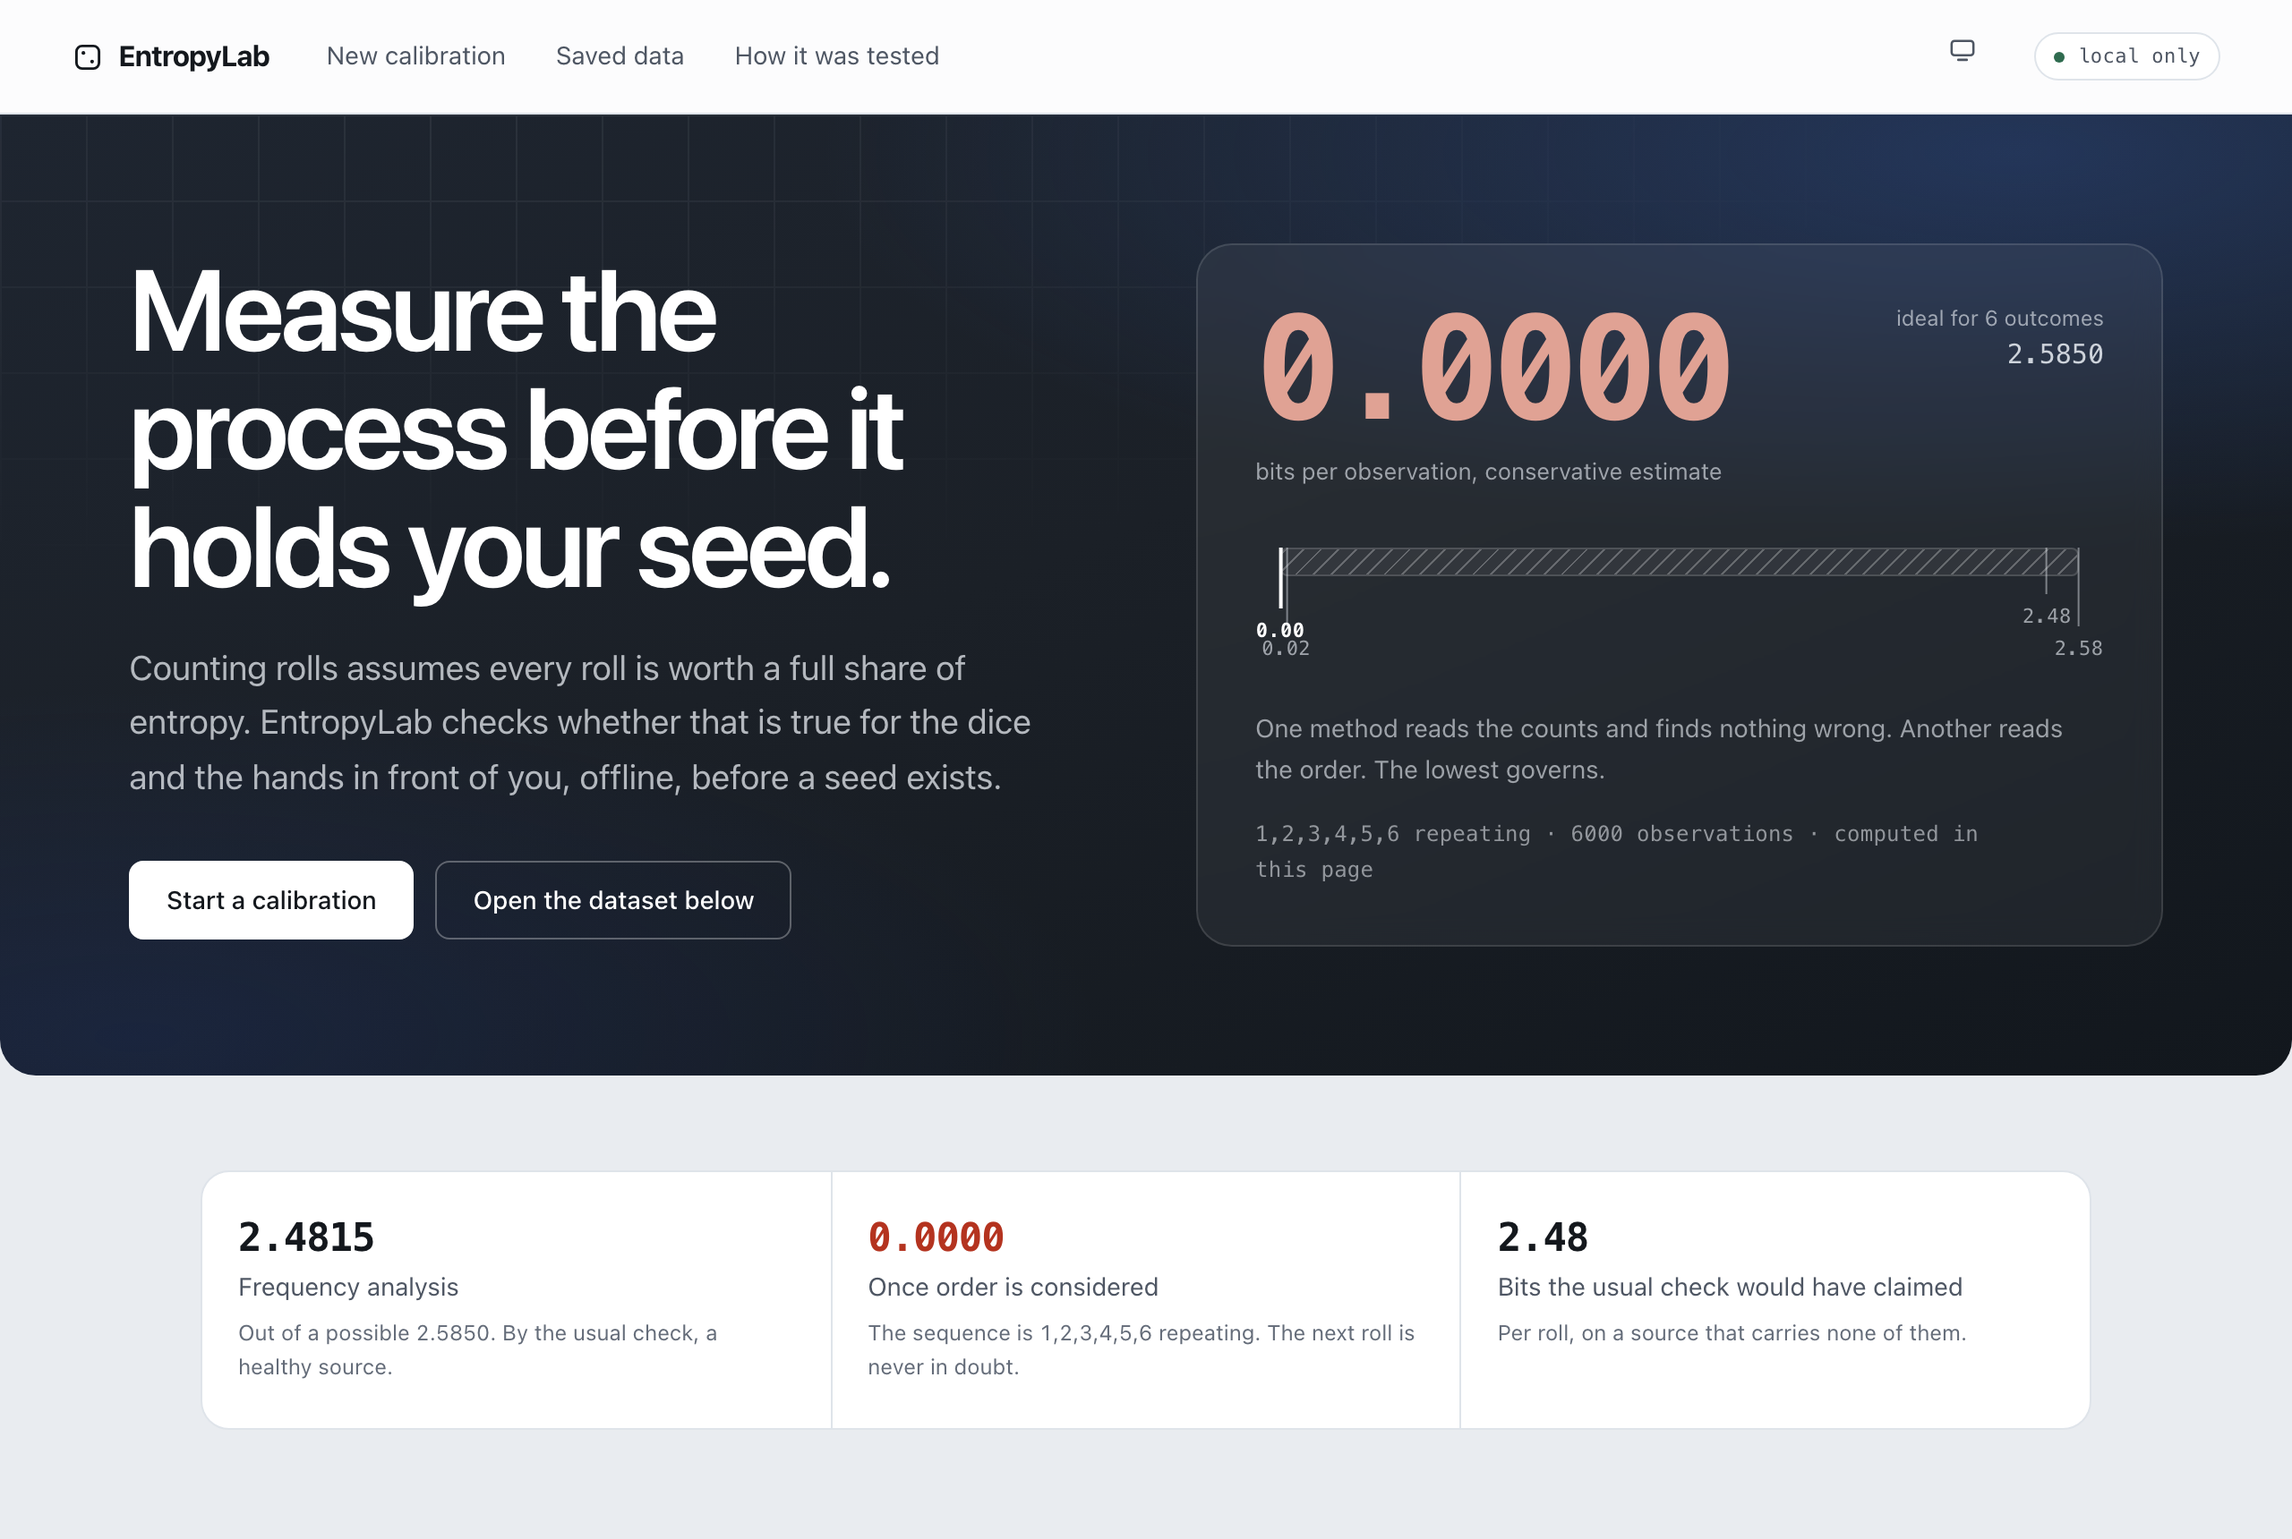
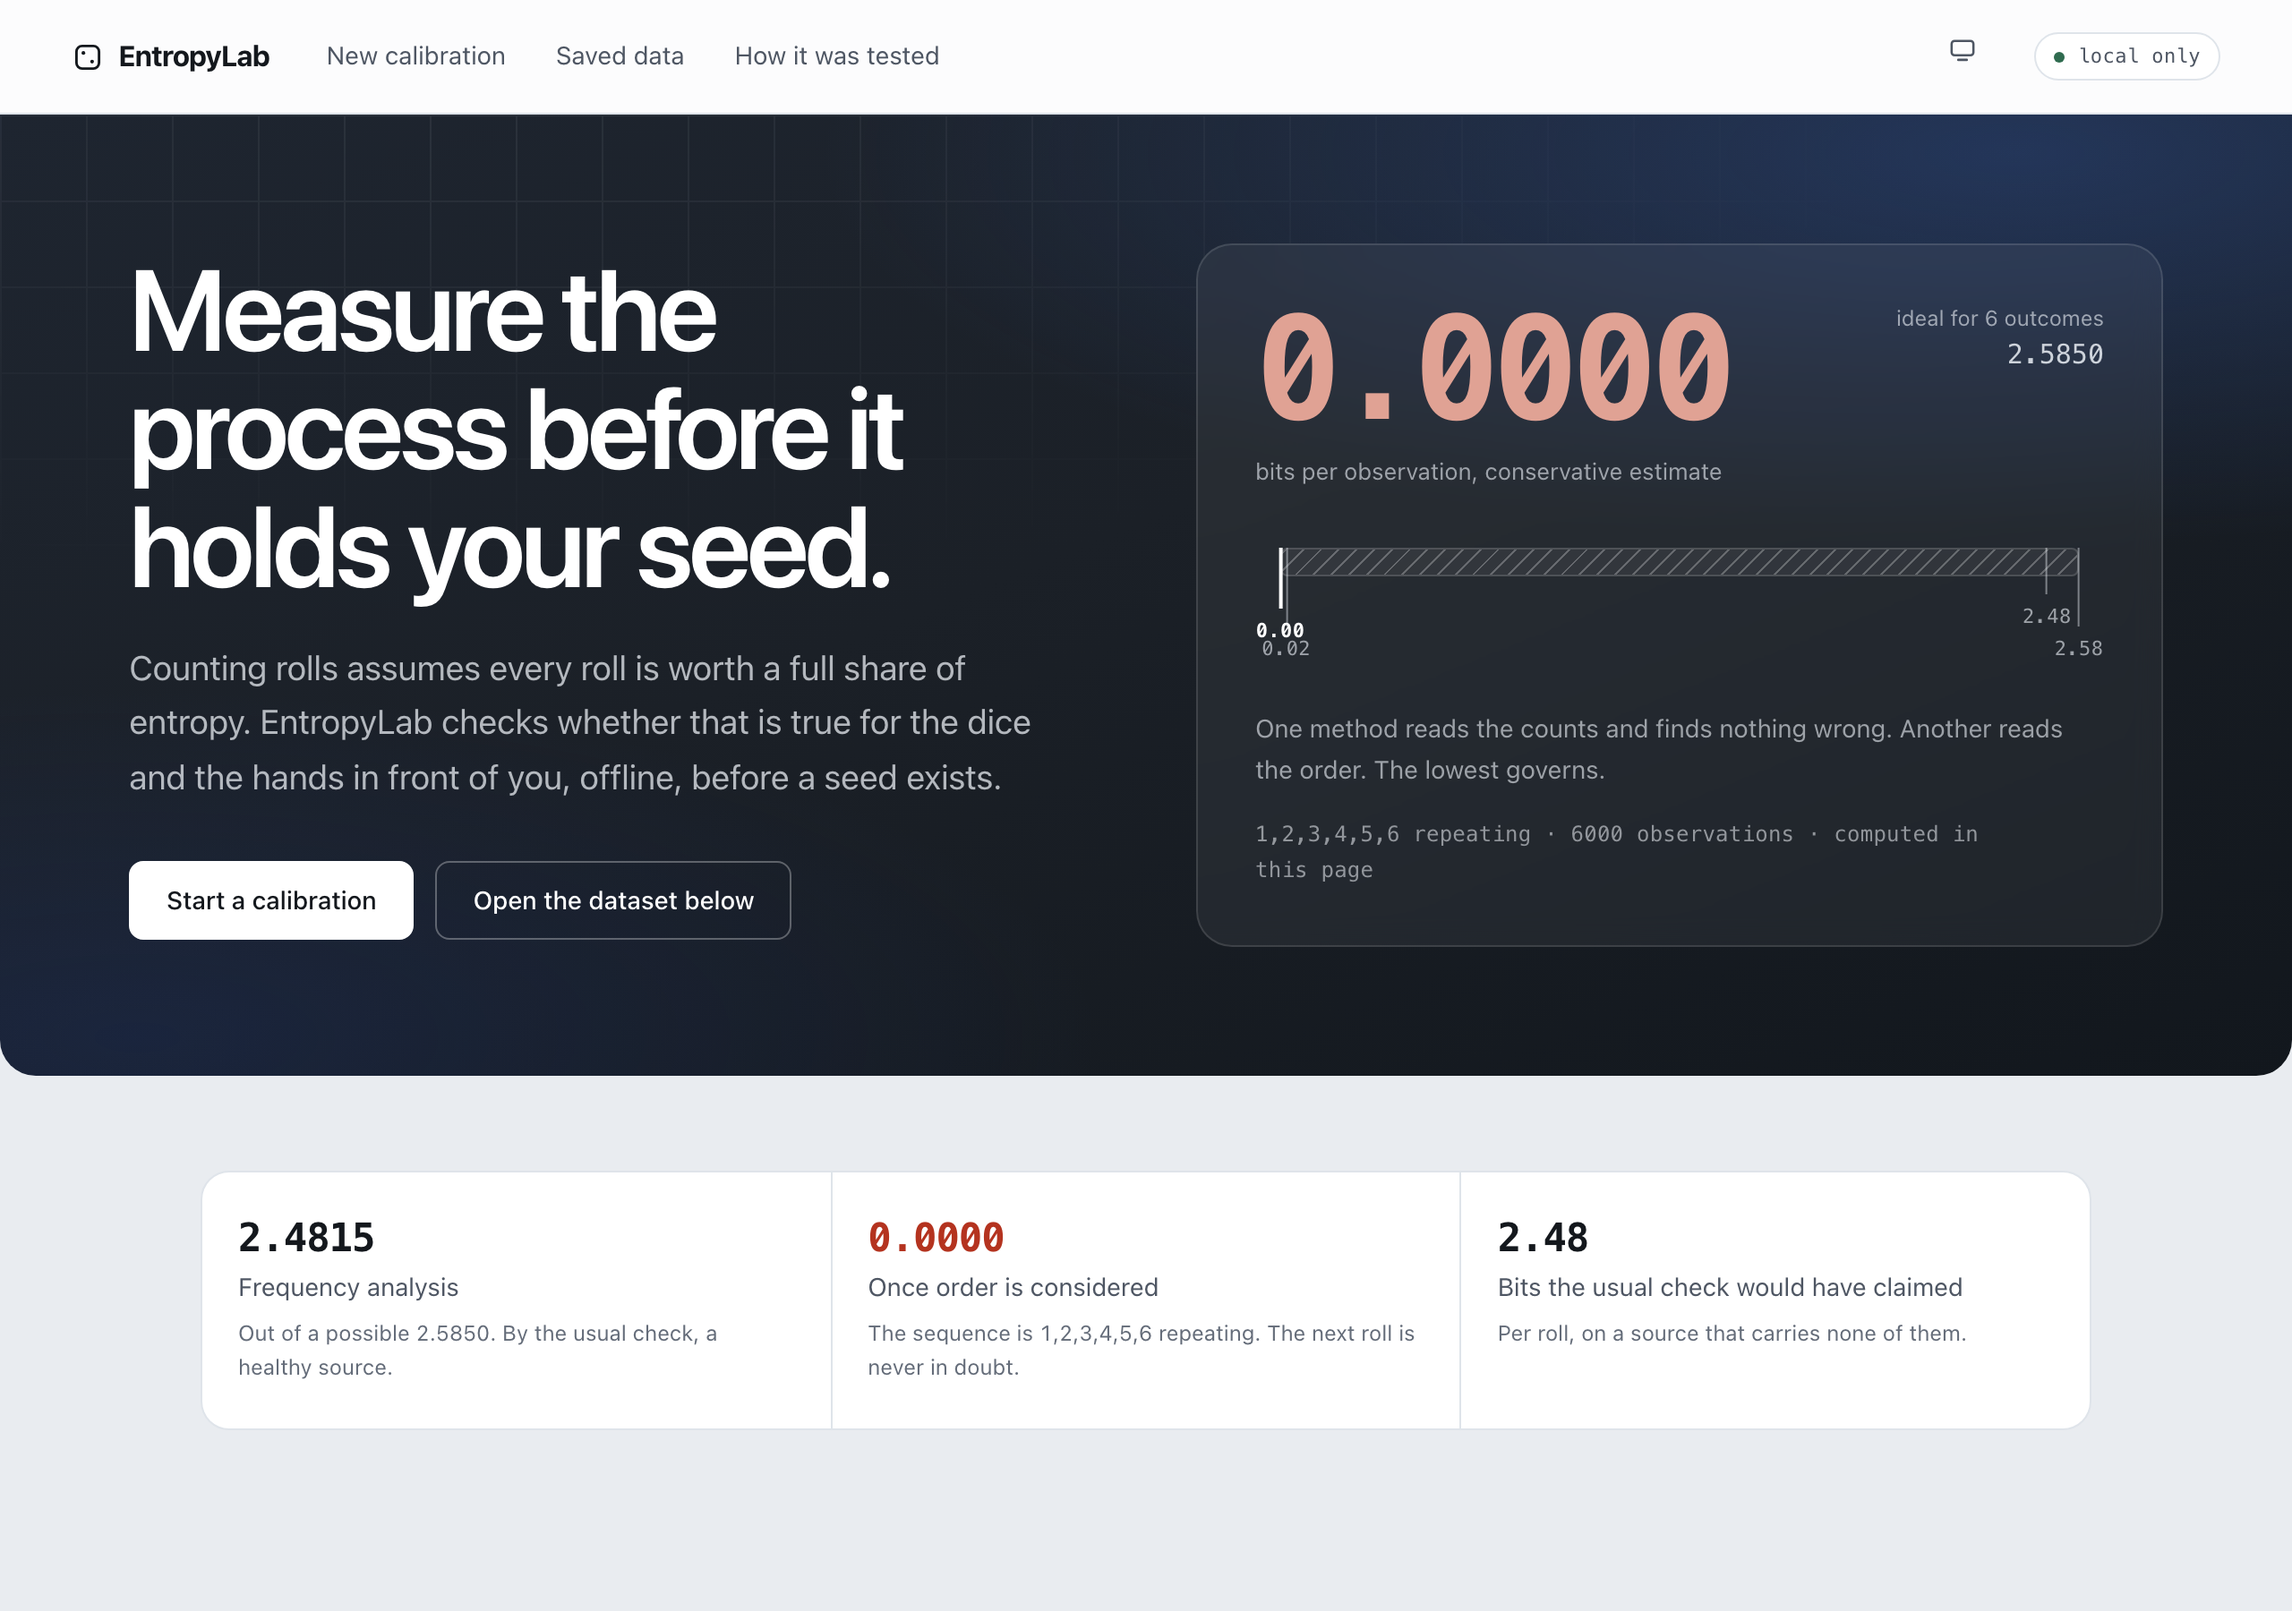
docs: refresh screenshots and counts for the rebuilt product
Regenerates the README screenshots from the current interface and adds
the capture screen, since onboarding is the part that changed most and
a reader cannot judge it from the landing page alone.

Corrects the test counts again: 167 unit and 42 browser.

diff --git a/README.md b/README.md
@@ -20,6 +20,8 @@ EntropyLab profiles the entropy-generation **process**. It does not:
 
 **[entropylab.timjosh507.workers.dev](https://entropylab.timjosh507.workers.dev/)**
 
+![EntropyLab recording a physical calibration against the protocol](./docs/images/capture.png)
+
 Open it, pick the periodic balanced dataset, and the argument is on screen in about ten seconds.
 Then turn your network off and reload: it keeps working, because the analysis was never running
 anywhere else.
@@ -78,7 +80,7 @@ yet.
 | Calibration onboarding and protocol UX       | Implemented                                                                 |
 | Demo video                                   | Not recorded                                                                |
 
-159 unit tests and 22 browser tests pass. CI runs formatting, typecheck, both suites, a build, and
+167 unit tests and 42 browser tests pass. CI runs formatting, typecheck, both suites, a build, and
 checks that the published campaign results still match a fresh run.
 
 ## Results
@@ -159,8 +161,8 @@ working; there is a browser test that asserts exactly that.
 ## Run the checks
 
 ```bash
-pnpm test        # 159 unit tests
-pnpm test:e2e    # 22 browser tests, builds the app first
+pnpm test        # 167 unit tests
+pnpm test:e2e    # 42 browser tests, builds the app first
 pnpm typecheck
 pnpm campaign    # regenerates docs/proof-campaign from code
 pnpm benchmark   # regenerates docs/BENCHMARKS.md from code

diff --git a/CHANGELOG.md b/CHANGELOG.md
@@ -32,6 +32,13 @@
 - Static deployment to GitHub Pages, with a guard against off-origin references.
 - Demo script and draft release notes.
 
+- Calibration onboarding: the collection protocol is stated on the define and capture screens.
+- Session progress against the protocol, with the estimator gates shown as thresholds.
+- Dataset provenance throughout the interface and the report.
+- One canonical analysis shared by the screen and the exported report.
+- Method authority shown beside every estimator result.
+- Social metadata and a card generated from the running application.
+
 ### Notes
 
 - Repository initialized for BOSS Battle 2026.
